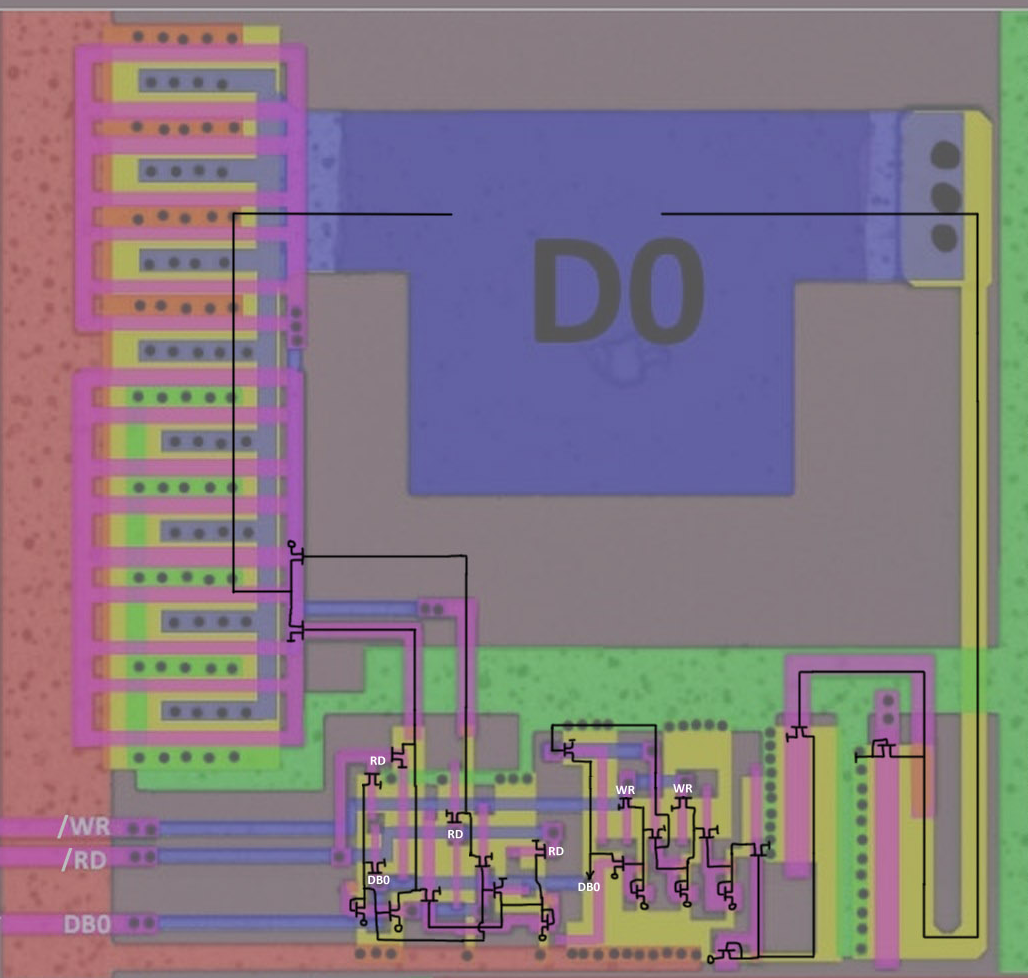
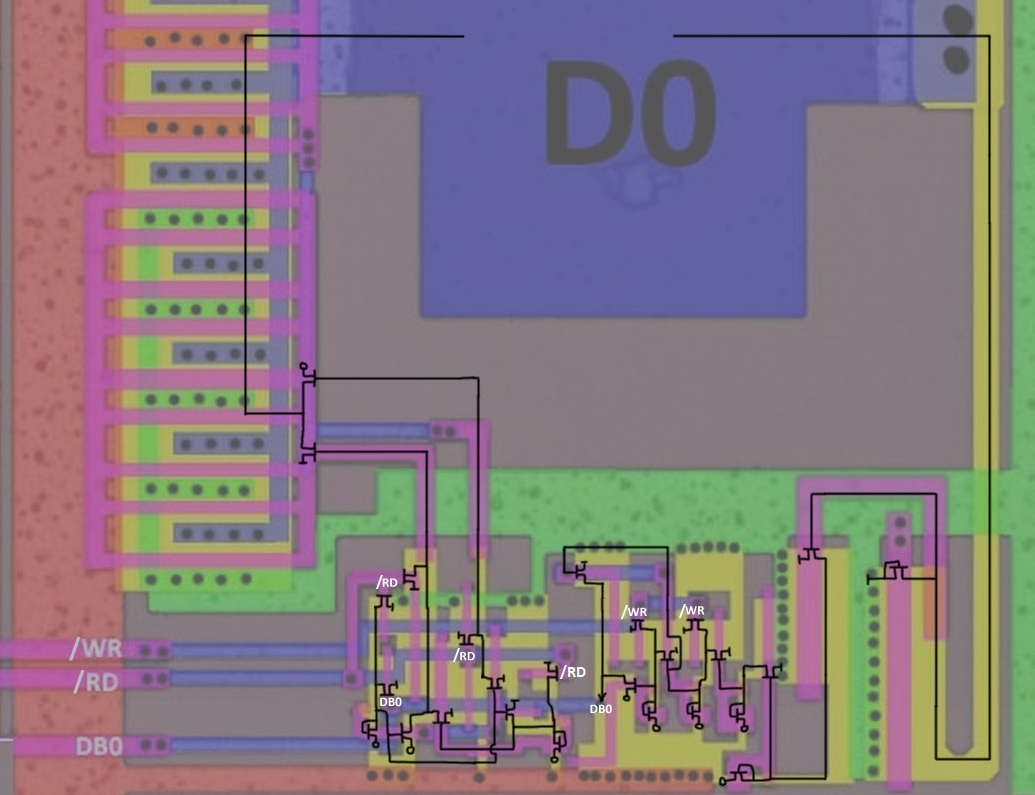
fixed /RD, /WR designation

diff --git a/BreakingNESWiki/PPU/regs.md b/BreakingNESWiki/PPU/regs.md
@@ -17,7 +17,7 @@
 
 Схема находится выше спрайтовой логики.
 
-Декодер предназначен для получения двух комплементарных управляющих линий `/RD` и `/WR` из входного контакта интерфейса CPU R/W.
+Декодер предназначен для получения двух комплементарных управляющих линий `/RD` и `/WR` из входного контакта интерфейса CPU R/W, которые используются для контактов внешней шины D0-D7.
 
 ![ppu_rw_decoder](/BreakingNESWiki/imgstore/ppu_rw_decoder.jpg)
 
@@ -27,7 +27,7 @@
 
 Схема занимается выбором регистровой операции. На вход поступает:
 - RS0-2 (входные контакты интерфейса CPU): Индекс регистра PPU (0-7)
-- /RD, /WR (получаются R/W декодером): Тип операции (чтение или запись)
+- R/W: Тип операции (чтение или запись)
 
 На выходе схемы получаются много контрольных линий, которые активируют операцию чтения или записи для соответствующего регистра (напр. `/R7` - означает "Прочитать регистр $2007")
 

diff --git a/BreakingNESWiki_DeepL/PPU/regs.md b/BreakingNESWiki_DeepL/PPU/regs.md
@@ -17,7 +17,7 @@ CPU Interface:
 
 The circuit is located above the sprite logic.
 
-The decoder is designed to obtain two complementary control lines `/RD` and `/WR` from the input pad of the CPU R/W interface.
+The decoder is designed to obtain two complementary control lines `/RD` and `/WR` from the input pad of the CPU R/W interface, which are used for the external data bus D0-D7.
 
 ![ppu_rw_decoder](/BreakingNESWiki/imgstore/ppu_rw_decoder.jpg)
 
@@ -27,7 +27,7 @@ The circuit is on the right side of the H/V counters.
 
 The circuit is engaged in selecting a register operation. The input is:
 - RS0-2 (CPU interface input pads): PPU register index (0-7)
-- /RD, /WR (derived by R/W decoder): Type of operation (read or write)
+- R/W: Type of operation (read or write)
 
 The output of the circuit produces many control lines which activate a read or write operation for the corresponding register (e.g. `/R7` - means "Read register $2007")
 

diff --git a/BreakingNESWiki/PPU/pads.md b/BreakingNESWiki/PPU/pads.md
@@ -118,7 +118,7 @@
 
 Когда /WR=0 шина данных AD0-AD7 используется для записи данных VRAM (output).
 
-Сигналы /RD и /WR можно перепутать с внутренними сигналами /RD\_internal и /WR\_internal, которые получаются из входного сигнала R/W схемой [RW декодера](regs.md).
+Сигналы /RD и /WR можно перепутать с внутренними сигналами /RD\_internal и /WR\_internal, которые используются в схеме [контроллера VRAM](vram_ctrl.md).
 
 ## Интерфейс с другими PPU
 

diff --git a/BreakingNESWiki_DeepL/PPU/pads.md b/BreakingNESWiki_DeepL/PPU/pads.md
@@ -118,7 +118,7 @@ The /WR signal is complementary to the /RD signal (they cannot take the same val
 
 When /WR=0 the AD0-AD7 data bus is used to write VRAM data (output).
 
-The /RD and /WR signals can be confused with the internal signals /RD\_internal and /WR\_internal, which are derived from the R/W input signal by the [RW decoder](regs.md) circuit.
+The /RD and /WR signals can be confused with the internal signals /RD\_internal and /WR\_internal, which are used in the [VRAM controller](vram_ctrl.md).
 
 ## Interface with other PPUs
 
